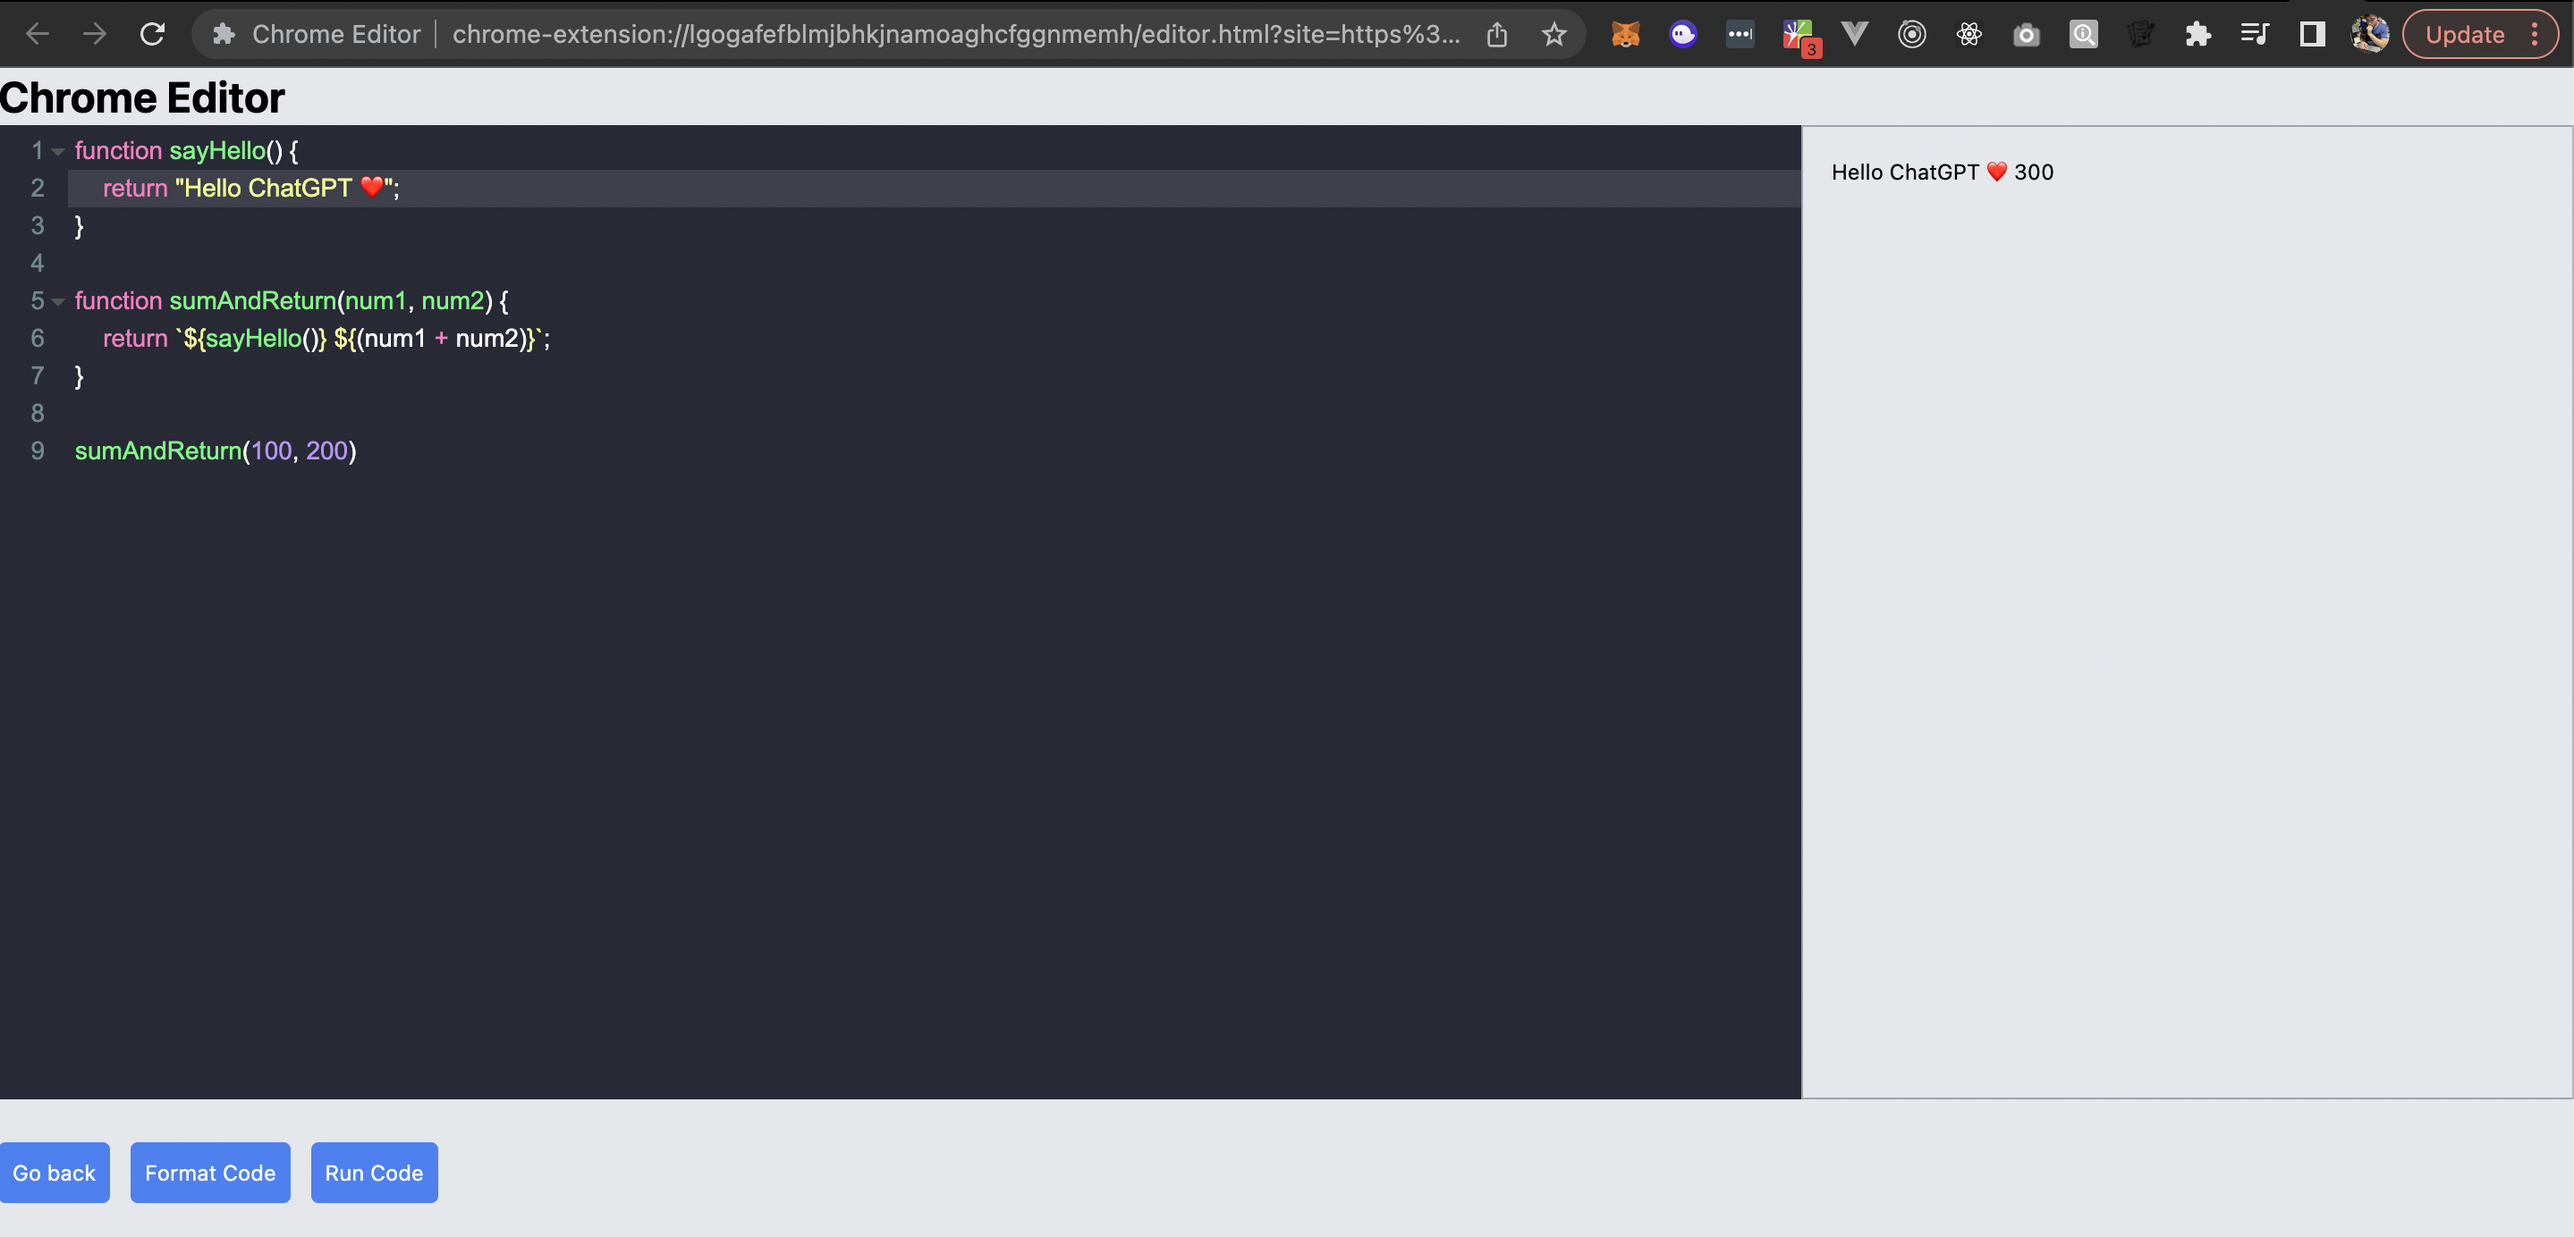
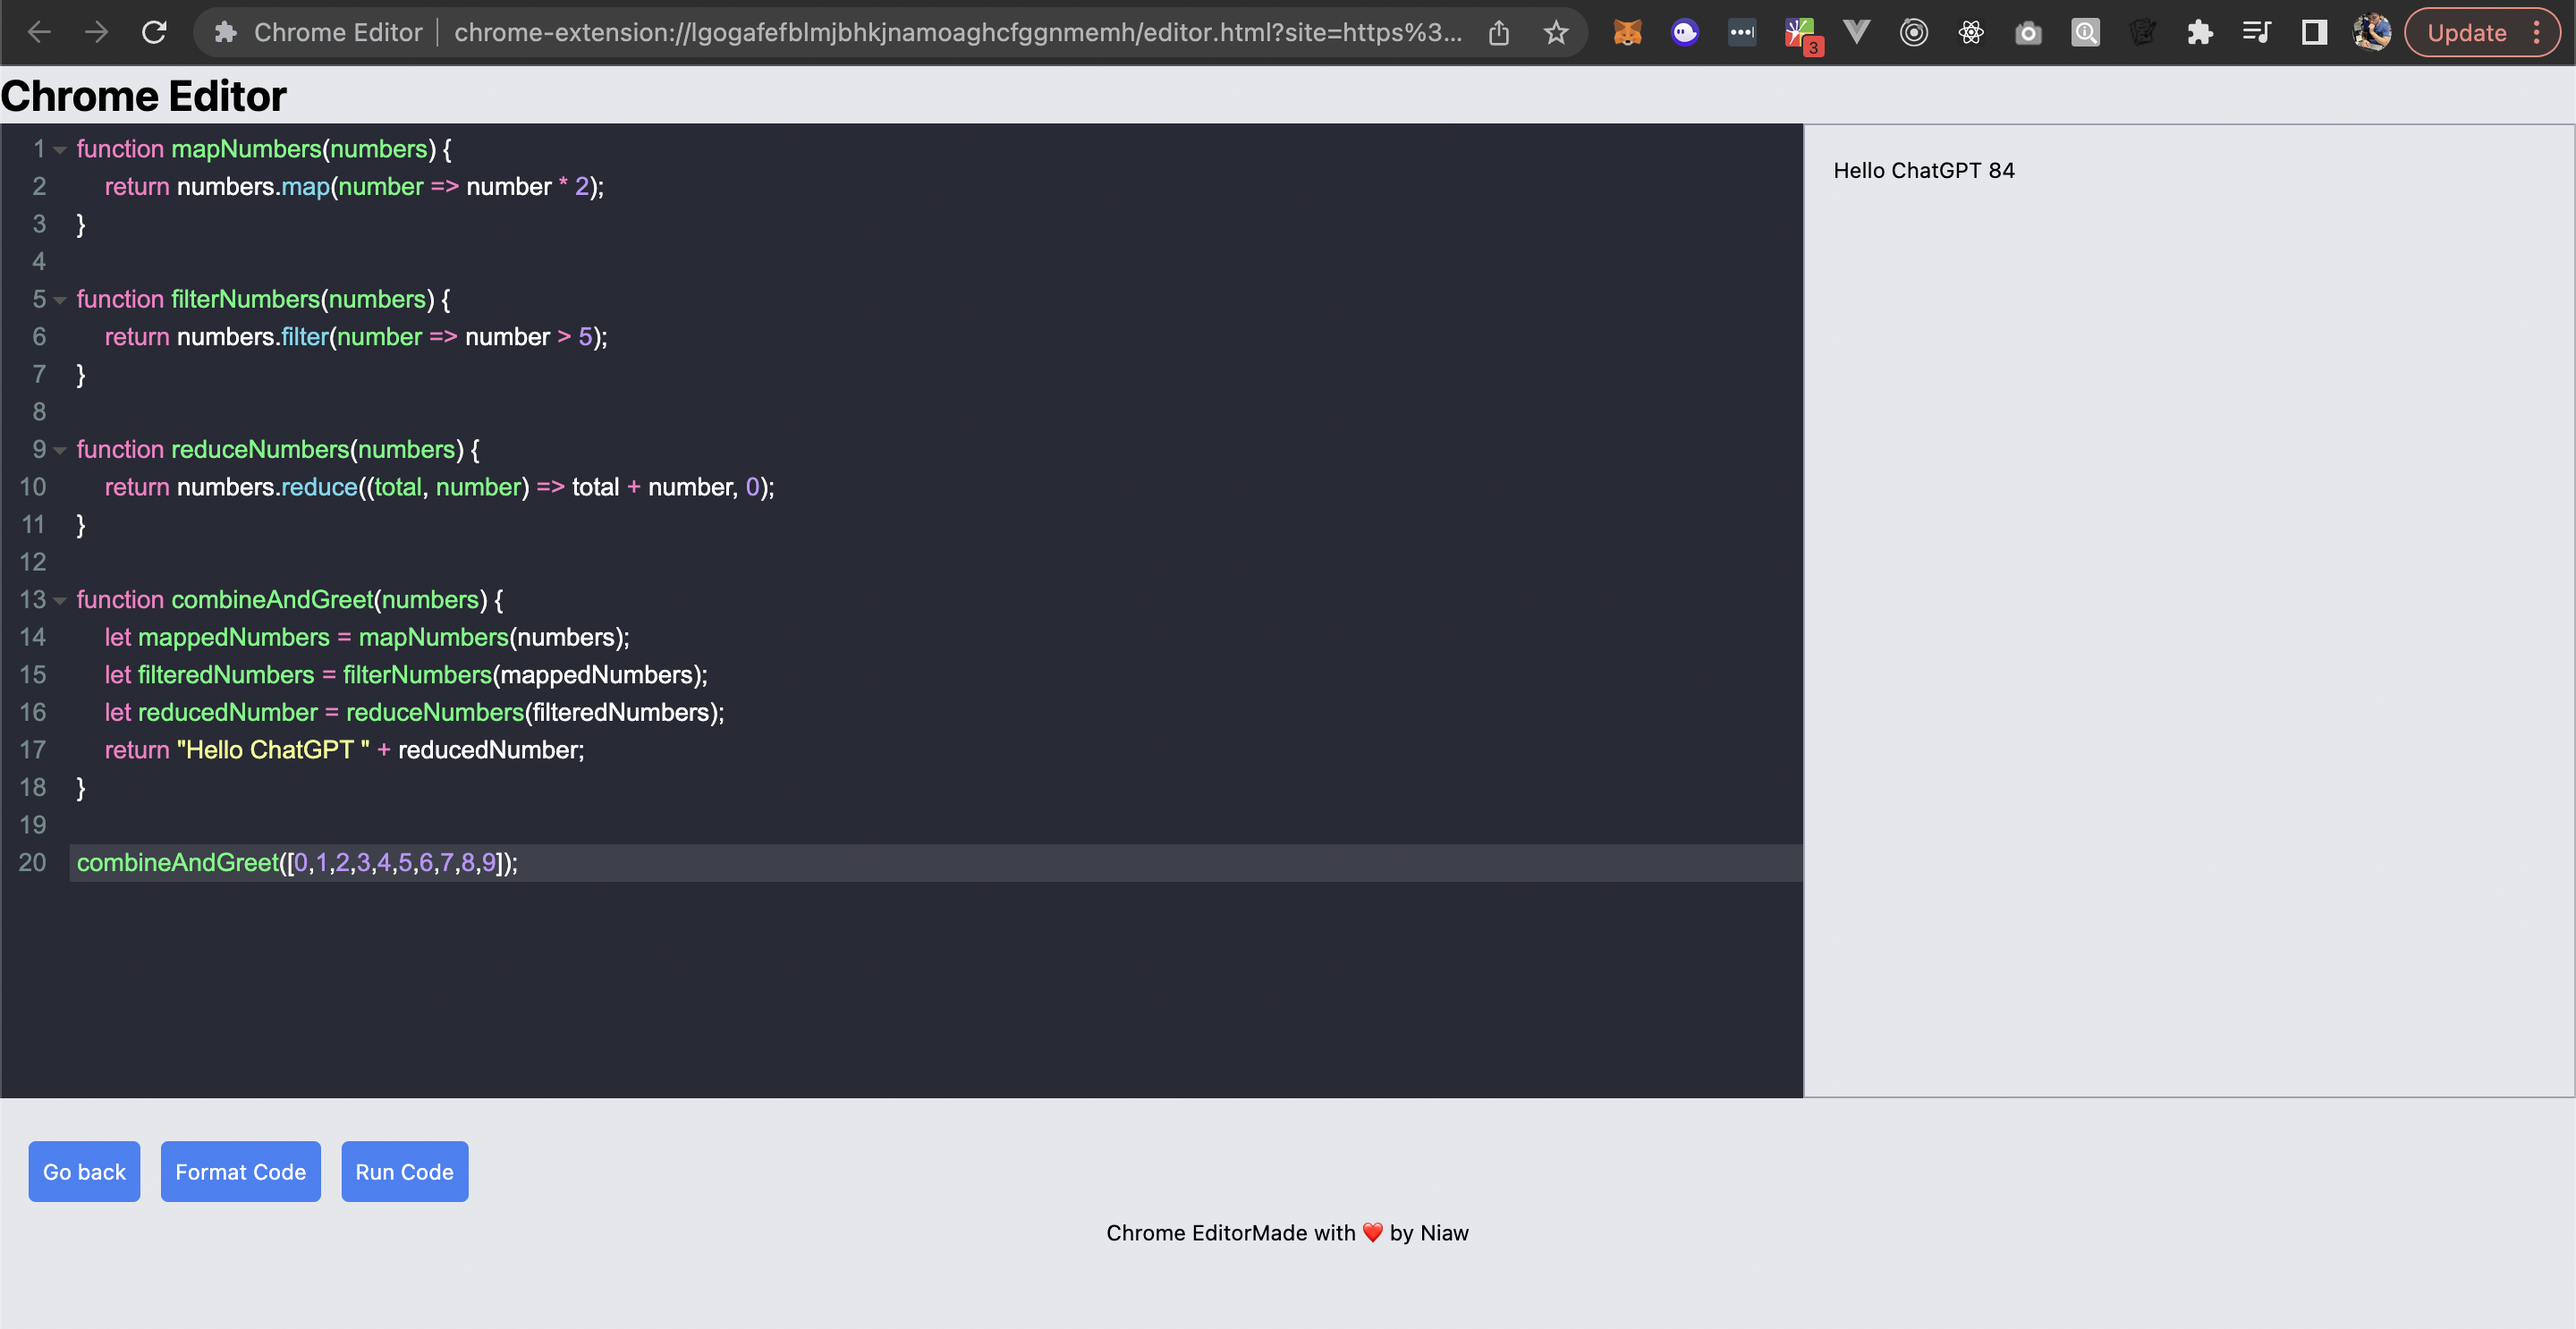
:memo:

diff --git a/editor.html b/editor.html
@@ -26,7 +26,7 @@
         <textarea id="code" class="border border-gray-400"></textarea>
         <div id="output" class="border border-gray-400 p-4"></div>
       </div>
-      <div class="mt-4">
+      <div class="mt-4 px-4">
         <button id="back-button" class="bg-blue-500 text-white p-2 rounded">
           Go back
         </button>
@@ -44,5 +44,12 @@
 
     <script type="module" src="./editor.js"></script>
   </body>
+  <footer class="flex justify-center w-screen">
+    <div>Chrome Editor</div>
+    <div>
+      Made with ❤ by
+      <a href="https://github.com/niawjunior" target="_blank">Niaw</a>
+    </div>
+  </footer>
   <iframe src="./sandbox.html" id="sandbox" style="display: none"></iframe>
 </html>

diff --git a/css/custom-code-mirror.css b/css/custom-code-mirror.css
@@ -1,3 +1,6 @@
+body {
+  min-width: 1000px;
+}
 html {
   max-width: 100%;
 }

diff --git a/README.md b/README.md
@@ -5,3 +5,5 @@
 ![alt text](context-menu.png)
 
 ![alt text](demo.png)
+
+![alt text](popup.png)
